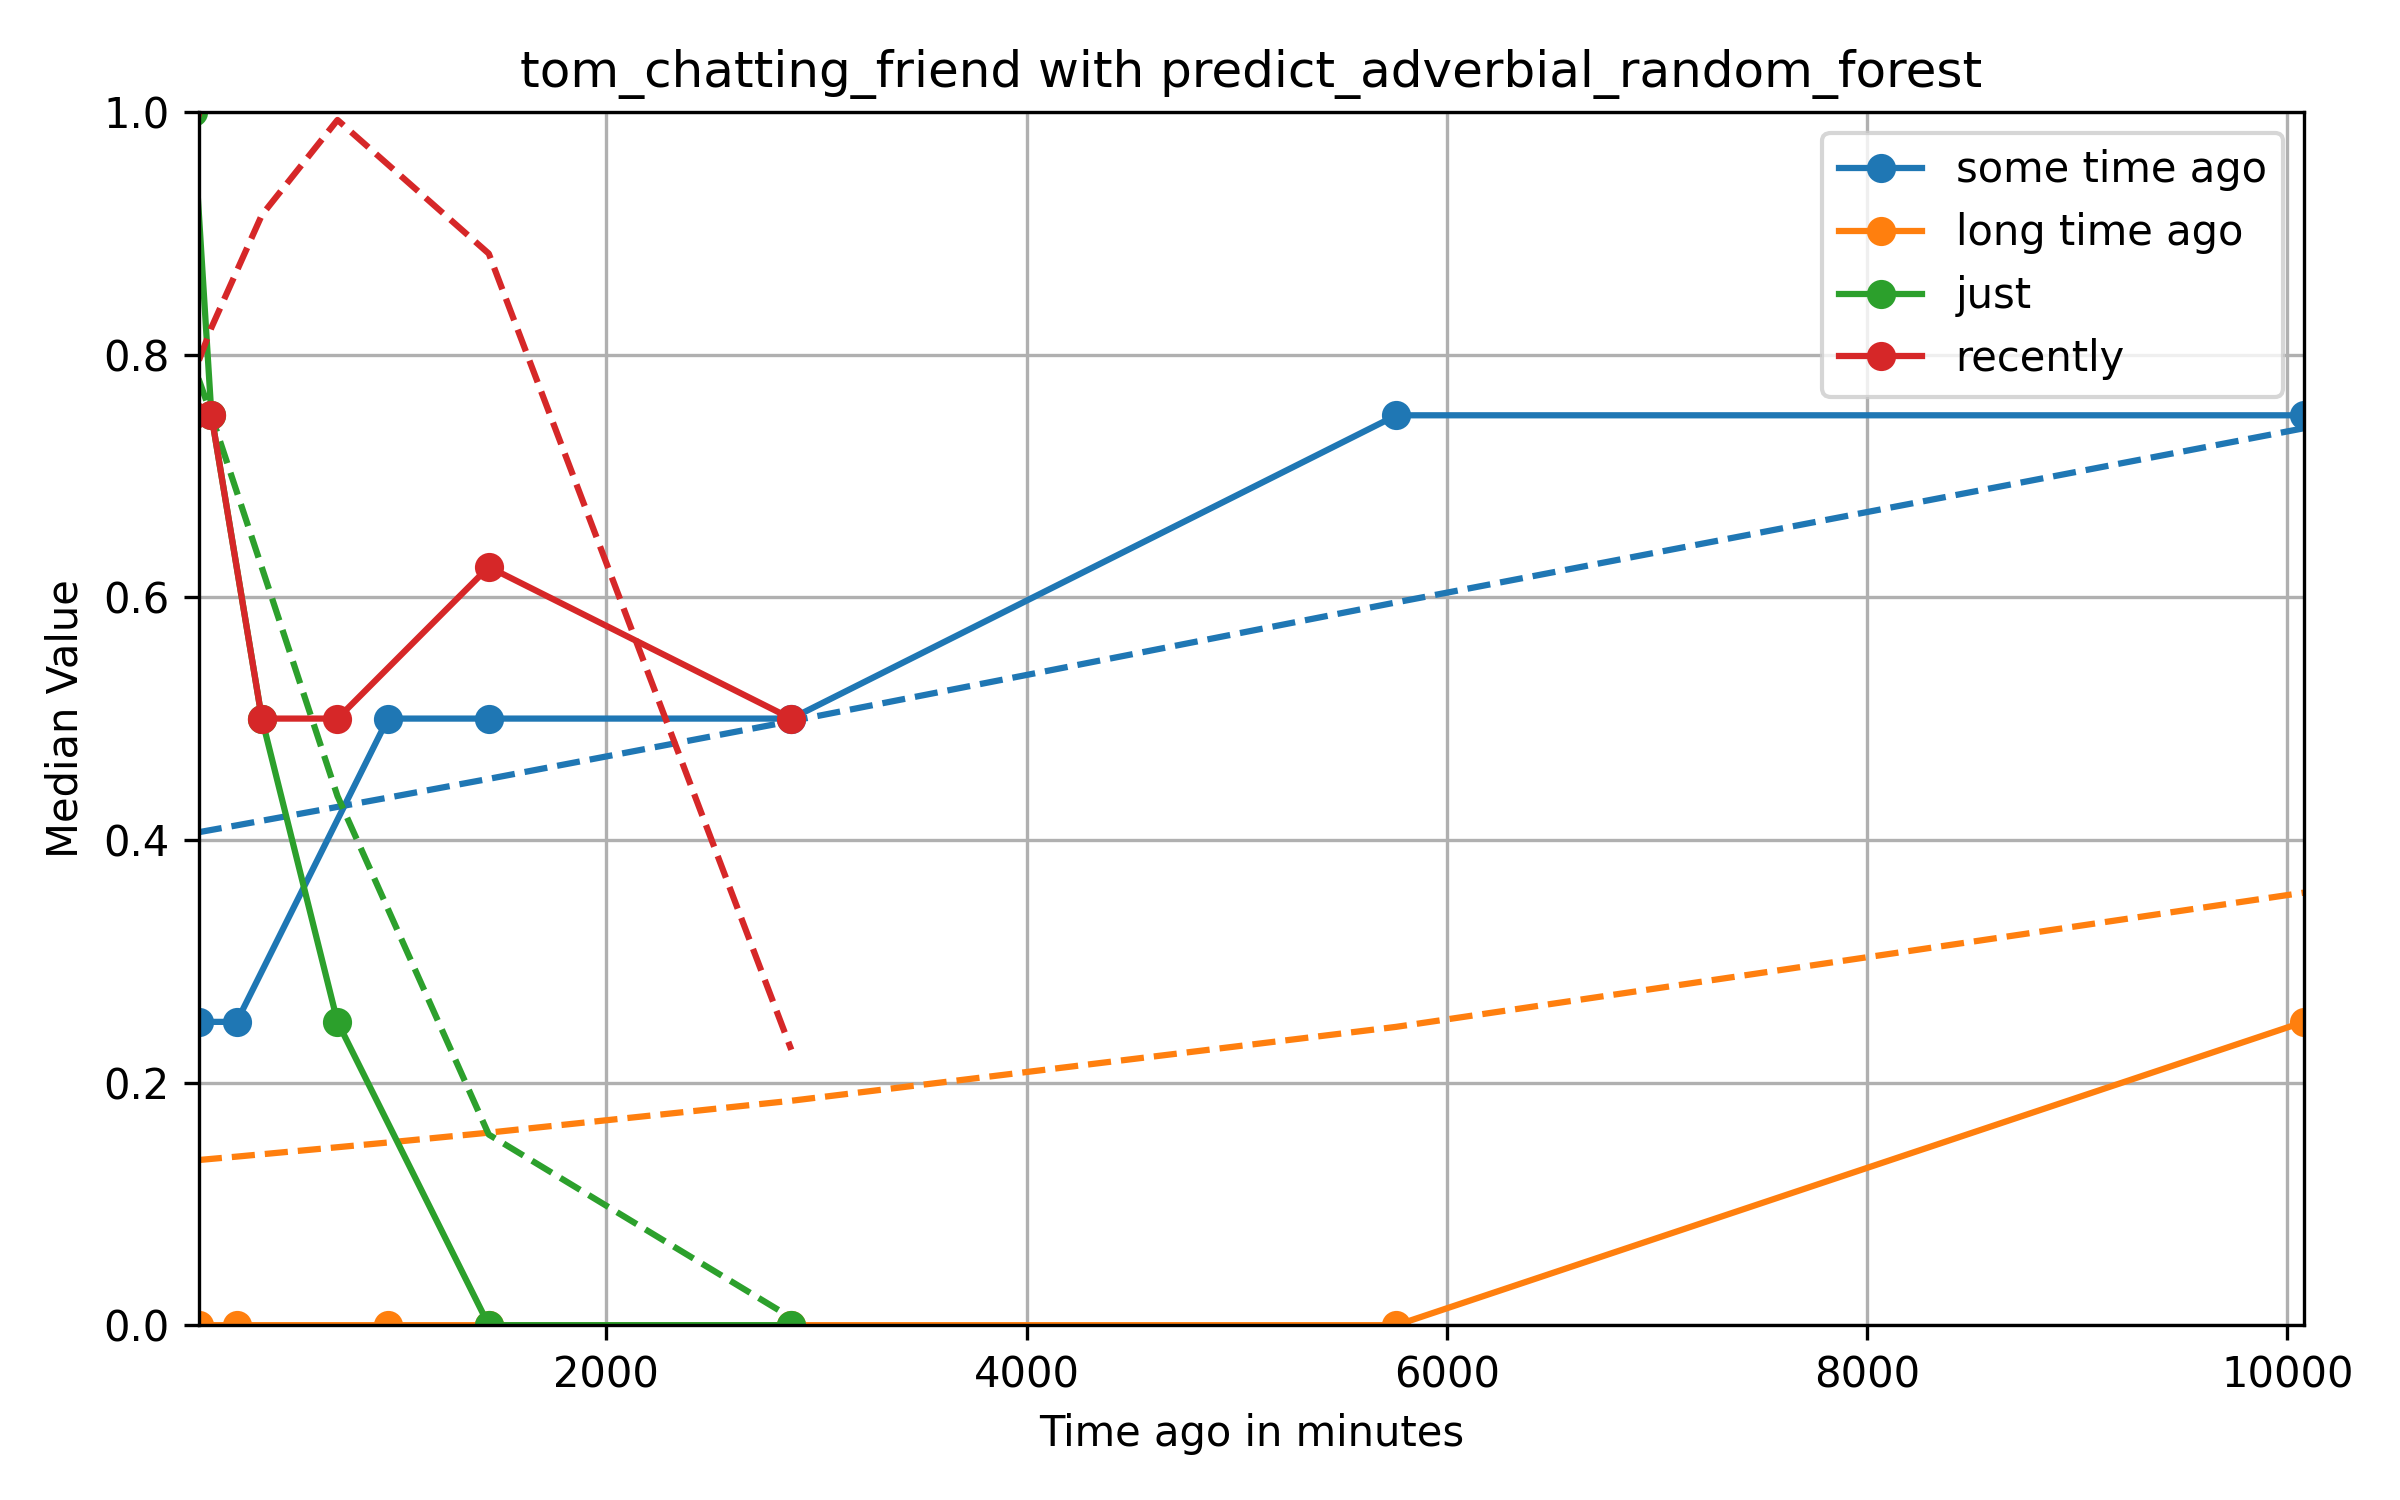
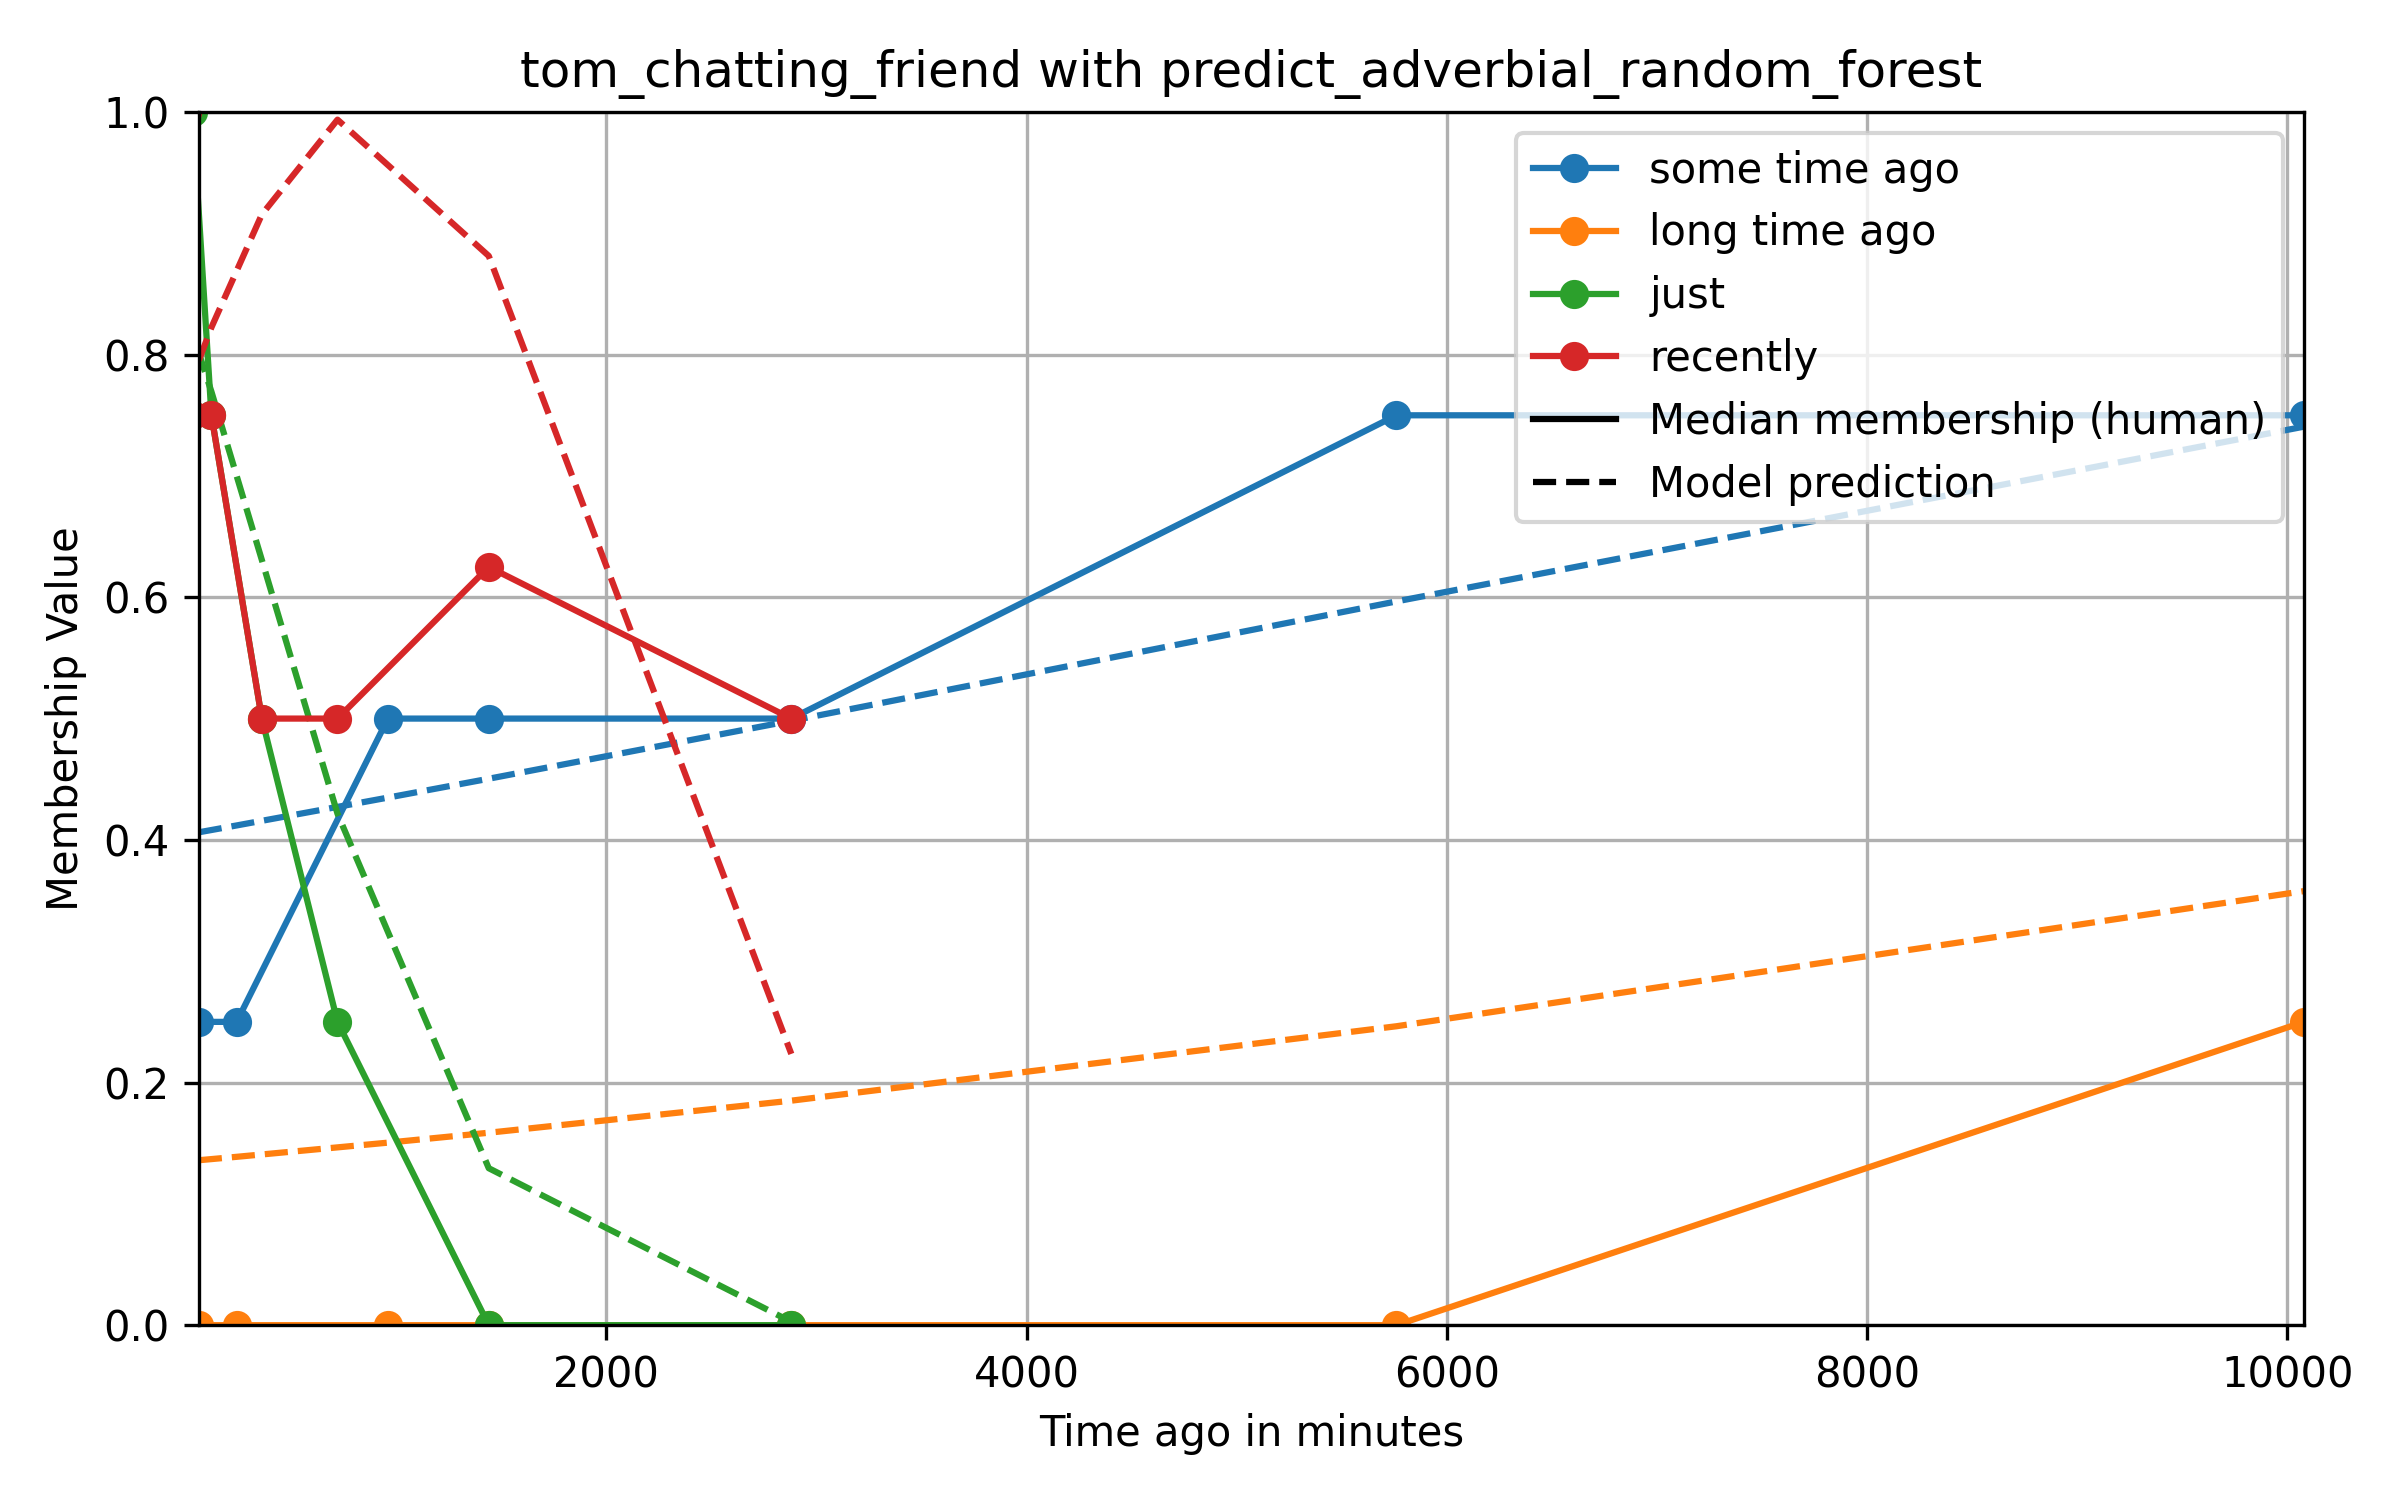
Fixed smaller errors in the prediction and changed the plots

diff --git a/src/predictions.py b/src/predictions.py
@@ -32,6 +32,31 @@ def _load_packed(path: Path = config.RESULTS_FILE_PATH / "event_adverbials") -> 
 def _safe_round(value):
     return round(value) if math.isfinite(value) else value
 
+def _properties_dataframe(properties):
+    """
+    Normalize properties input to a DataFrame with columns ordered as config.properties_to_use.
+    Accepts dict, list of dicts, or DataFrame. Raises if required columns missing.
+    """
+    if isinstance(properties, pd.DataFrame):
+        df = properties.copy()
+    elif isinstance(properties, dict):
+        df = pd.DataFrame([properties])
+    else:
+        df = pd.DataFrame(properties)
+
+    # Normalize column casing to expected names
+    expected = {col.lower(): col for col in config.properties_to_use}
+    for col in list(df.columns):
+        col_lower = str(col).lower()
+        if col_lower in expected and col != expected[col_lower]:
+            df = df.rename(columns={col: expected[col_lower]})
+
+    missing = [col for col in config.properties_to_use if col not in df.columns]
+    if missing:
+        raise ValueError(f"Missing required property columns: {', '.join(missing)}")
+
+    return df[config.properties_to_use]
+
 def get_all_event_properties_gpt(events_nl, file_path, model_engine=config.GPT_VERSION):
     def format_scale(scale_dict):
         return "\n".join([f"{k} – {v}" for k, v in scale_dict.items()])
@@ -155,7 +180,8 @@ def predict_time_frame_random_forest(properties, adverbial, min_prob=0.6):
     adverbial_std = params["adverbial_stds"][adverbial]
 
     random_forest = load(config.RESULTS_FILE_PATH / config.RANDOM_FOREST_FILE)
-    event_std = random_forest.predict(pd.DataFrame(properties))[0]
+    properties_df = _properties_dataframe(properties)
+    event_std = random_forest.predict(properties_df)[0]
 
     lower_adverbial, higher_adverbial = config.gauss_inverse(min_prob, adverbial_mean, adverbial_std)
     upper_raw = config.inverse_event_specific_function(higher_adverbial, event_std)
@@ -171,8 +197,8 @@ def predict_adverbial_random_forest(properties, minutes_ago, *args):
     params = _load_packed()
 
     random_forest = load(config.RESULTS_FILE_PATH / config.RANDOM_FOREST_FILE)
-    # print(properties)
-    event_std = random_forest.predict(pd.DataFrame(properties))[0]
+    properties_df = _properties_dataframe(properties)
+    event_std = random_forest.predict(properties_df)[0]
 
     adverbial_probs = {}
     for adverbial in config.VAGUE_ADVERBIALS:
@@ -190,10 +216,8 @@ def predict_adverbial_functions(properties, minutes_ago, function_to_predict, *a
 
     model = load( f"{config.RESULTS_FILE_PATH}/{function_to_predict.__name__}.pkl")
     function_params = list(model["params"].values())
-    property_values = list(properties[0].values())
-    # print(properties)
-    # print(config.properties_to_use)
-    # print(property_values)
+    properties_df = _properties_dataframe(properties)
+    property_values = [properties_df.iloc[0][prop] for prop in config.properties_to_use]
     event_std = function_to_predict(property_values, *function_params)
 
     adverbial_probs = {}
@@ -204,6 +228,4 @@ def predict_adverbial_functions(properties, minutes_ago, function_to_predict, *a
         prob_adverbial = config.adverbial_specific_function(config.event_specific_function(minutes_ago, event_std), adverbial_mean, adverbial_std)
         adverbial_probs[adverbial] = prob_adverbial
     return adverbial_probs
-
-
 

diff --git a/src/plot.py b/src/plot.py
@@ -14,6 +14,7 @@ import json
 from pathlib import Path
 from typing import Callable, Dict, List
 import matplotlib.pyplot as plt
+from matplotlib.lines import Line2D
 import numpy as np
 import pandas as pd
 
@@ -153,6 +154,7 @@ def plot_all_persons_event_adverbials(
 
     outfile = config.PLOT_FILE_PATH / "highestStd_allAdverbials.png"
     fig.savefig(outfile, dpi=300)
+    plt.close()
 
 def plot_single_events(event_name, event_name_nl, predict_fn):
     with open(config.DATA_DIR / event_name / "cleanedData_minutes.json", "r", encoding="utf-8") as f:
@@ -203,15 +205,21 @@ def plot_single_events(event_name, event_name_nl, predict_fn):
 
     plt.xlim(left=0, right=x_limit_max)
     plt.xlabel('Time ago in minutes')
-    plt.ylabel('Median Value')
+    plt.ylabel('Membership Value')
     plt.title(f'{event_name} with {predict_fn.__name__}')
     plt.ylim(0, 1)
     plt.grid(True)
-    plt.legend()
+    handles, labels = plt.gca().get_legend_handles_labels()
+    style_handles = [
+        Line2D([0], [0], color='black', linestyle='-', label='Median membership (human)'),
+        Line2D([0], [0], color='black', linestyle='--', label='Model prediction'),
+    ]
+    plt.legend(handles + style_handles, labels + [h.get_label() for h in style_handles])
     plt.tight_layout()
     outfile = config.PLOT_FILE_PATH / event_name / "small_time_ago.png"
     outfile.parent.mkdir(parents=True, exist_ok=True)
     plt.savefig(outfile, dpi=300)
+    plt.close()
 
     # --- Plot 2: After x_limit ---
     plt.figure(figsize=(8, 5))
@@ -221,15 +229,21 @@ def plot_single_events(event_name, event_name_nl, predict_fn):
 
     plt.xlim(left=x_limit_min, right=max(max(t) for t, _, _ in results.values()))
     plt.xlabel('Time ago in minutes')
-    plt.ylabel('Median Value')
+    plt.ylabel('Membership Value')
     plt.title(f'{event_name} with {predict_fn.__name__}')
     plt.ylim(0, 1)
     plt.grid(True)
-    plt.legend()
+    handles, labels = plt.gca().get_legend_handles_labels()
+    style_handles = [
+        Line2D([0], [0], color='black', linestyle='-', label='Median membership (human)'),
+        Line2D([0], [0], color='black', linestyle='--', label='Model prediction'),
+    ]
+    plt.legend(handles + style_handles, labels + [h.get_label() for h in style_handles])
     plt.tight_layout()
     outfile = config.PLOT_FILE_PATH / event_name / "big_time_ago.png"
     outfile.parent.mkdir(parents=True, exist_ok=True)
     plt.savefig(outfile, dpi=300)
+    plt.close()
     return
 
 def plot_events_adverbials(events, adverbial):

diff --git a/main.py b/main.py
@@ -156,10 +156,10 @@ def plot_results(events, events_nl, adverbial, predict_function):
           "The used FuzzyLLI configuration for the plotting is Random Forest")
     print("\nPlotting the FuzzyLLI Overview Diagram (Left each event, right the adverbials")
     plot_all_persons_event_adverbials(events)
+    print("\nPlotting the course of single events after fitting")
     for event_name, event_name_nl in zip(events, events_nl):
-        print("\nPlotting the course of the event after fitting: ", event_name)
         plot_single_events(event_name, event_name_nl, predict_function)
-    print("Plot only the median membership values of the given adverbial for the given events")
+    print("\nPlot only the median membership values of the given adverbial for the given events")
     plot_events_adverbials(events, adverbial)
 
 
